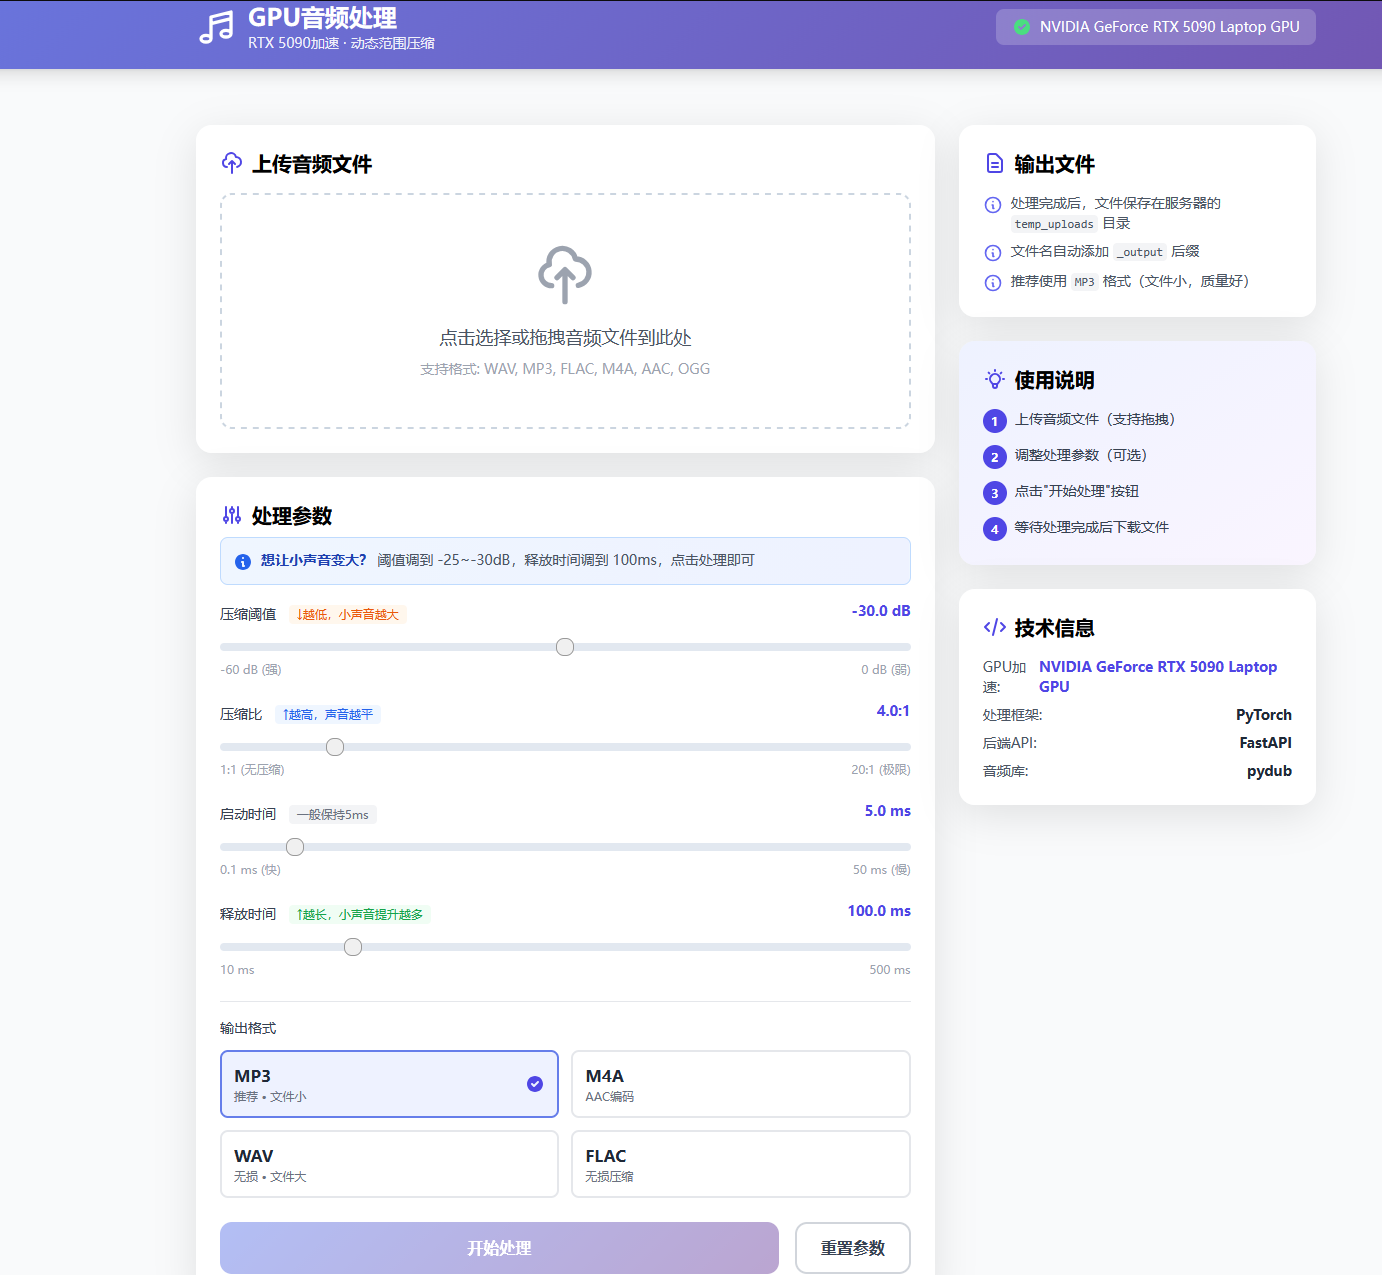
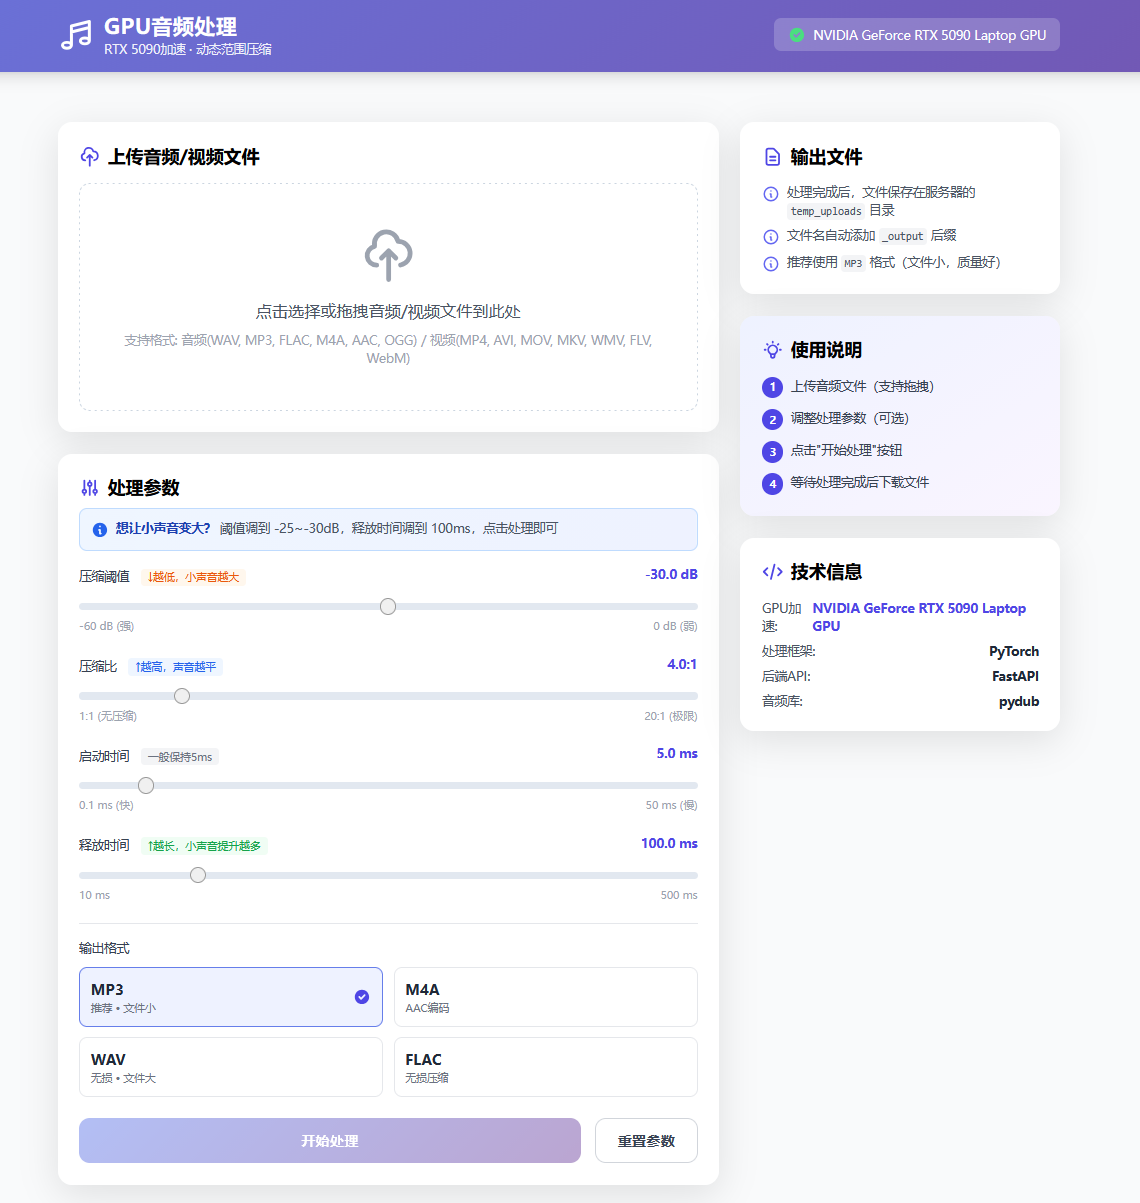
视频预处理BUG修复

diff --git a/audio_preprocessing/templates/index.html b/audio_preprocessing/templates/index.html
@@ -4,7 +4,7 @@
     <meta charset="UTF-8">
     <meta name="viewport" content="width=device-width, initial-scale=1.0">
     <title>GPU音频处理 - RTX 5090加速</title>
-    <script src="https://cdn.tailwindcss.com"></script>
+    <script src="/static/tailwind.js"></script>
     <style>
         /* 自定义样式 */
         .gradient-bg {
@@ -146,16 +146,16 @@
                         <svg class="w-6 h-6 mr-2 text-indigo-600" fill="none" stroke="currentColor" viewBox="0 0 24 24">
                             <path stroke-linecap="round" stroke-linejoin="round" stroke-width="2" d="M7 16a4 4 0 01-.88-7.903A5 5 0 1115.9 6L16 6a5 5 0 011 9.9M15 13l-3-3m0 0l-3 3m3-3v12"></path>
                         </svg>
-                        上传音频文件
+                        上传音频/视频文件
                     </h2>
 
                     <div id="uploadZone" class="upload-zone rounded-xl p-12 text-center cursor-pointer">
-                        <input type="file" id="fileInput" class="hidden" accept=".wav,.mp3,.flac,.m4a,.aac,.ogg">
+                        <input type="file" id="fileInput" class="hidden" accept=".wav,.mp3,.flac,.m4a,.aac,.ogg,.mp4,.avi,.mov,.mkv,.wmv,.flv,.webm">
                         <svg class="w-16 h-16 mx-auto mb-4 text-gray-400" fill="none" stroke="currentColor" viewBox="0 0 24 24">
                             <path stroke-linecap="round" stroke-linejoin="round" stroke-width="2" d="M7 16a4 4 0 01-.88-7.903A5 5 0 1115.9 6L16 6a5 5 0 011 9.9M15 13l-3-3m0 0l-3 3m3-3v12"></path>
                         </svg>
-                        <p class="text-lg text-gray-600 mb-2">点击选择或拖拽音频文件到此处</p>
-                        <p class="text-sm text-gray-400">支持格式: WAV, MP3, FLAC, M4A, AAC, OGG</p>
+                        <p class="text-lg text-gray-600 mb-2">点击选择或拖拽音频/视频文件到此处</p>
+                        <p class="text-sm text-gray-400">支持格式: 音频(WAV, MP3, FLAC, M4A, AAC, OGG) / 视频(MP4, AVI, MOV, MKV, WMV, FLV, WebM)</p>
                     </div>
 
                     <!-- 文件信息 -->
@@ -413,7 +413,7 @@
                     <div class="space-y-3 text-sm text-gray-700">
                         <div class="flex items-start space-x-2">
                             <span class="flex-shrink-0 w-6 h-6 bg-indigo-600 text-white rounded-full flex items-center justify-center text-xs font-bold">1</span>
-                            <p>上传音频文件（支持拖拽）</p>
+                            <p>上传音频/视频文件（支持拖拽）</p>
                         </div>
 
                         <div class="flex items-start space-x-2">
@@ -651,7 +651,10 @@
 
         // 处理文件
         function handleFile(file) {
-            const validExtensions = ['.wav', '.mp3', '.flac', '.m4a', '.aac', '.ogg'];
+            // 支持音频和视频格式
+            const audioExtensions = ['.wav', '.mp3', '.flac', '.m4a', '.aac', '.ogg'];
+            const videoExtensions = ['.mp4', '.avi', '.mov', '.mkv', '.wmv', '.flv', '.webm'];
+            const validExtensions = [...audioExtensions, ...videoExtensions];
             const fileExt = '.' + file.name.split('.').pop().toLowerCase();
 
             if (!validExtensions.includes(fileExt)) {
@@ -670,7 +673,7 @@
         // 开始处理
         async function startProcessing() {
             if (!currentFile) {
-                showAlert('请先选择音频文件', 'error');
+                showAlert('请先选择音频或视频文件', 'error');
                 return;
             }
 

diff --git a/audio_preprocessing/api_server.py b/audio_preprocessing/api_server.py
@@ -44,6 +44,13 @@ app.add_middleware(
 TEMP_DIR = Path("./temp_uploads")
 TEMP_DIR.mkdir(exist_ok=True)
 
+# 静态文件目录
+static_dir = Path(__file__).parent / "static"
+static_dir.mkdir(exist_ok=True)
+
+# 挂载静态文件服务
+app.mount("/static", StaticFiles(directory=str(static_dir)), name="static")
+
 # 模板目录
 templates_dir = Path(__file__).parent / "templates"
 
@@ -94,22 +101,25 @@ async def health_check():
 @app.post("/api/upload")
 async def upload_audio(file: UploadFile = File(...)):
     """
-    上传音频文件
+    上传音频/视频文件
 
     Args:
-        file: 音频文件
+        file: 音频或视频文件
 
     Returns:
         JSON响应，包含文件名和存储路径
     """
     # 验证文件类型
-    allowed_extensions = {'.wav', '.mp3', '.flac', '.m4a', '.aac', '.ogg'}
+    audio_extensions = {'.wav', '.mp3', '.flac', '.m4a', '.aac', '.ogg'}
+    video_extensions = {'.mp4', '.avi', '.mov', '.mkv', '.wmv', '.flv', '.webm'}
+    allowed_extensions = audio_extensions | video_extensions
+
     file_ext = Path(file.filename).suffix.lower()
 
     if file_ext not in allowed_extensions:
         raise HTTPException(
             status_code=400,
-            detail=f"不支持的文件格式: {file_ext}。支持的格式: {', '.join(allowed_extensions)}"
+            detail=f"不支持的文件格式: {file_ext}"
         )
 
     # 保存文件
@@ -119,14 +129,74 @@ async def upload_audio(file: UploadFile = File(...)):
         with open(file_path, "wb") as buffer:
             shutil.copyfileobj(file.file, buffer)
 
+        file_type = "视频" if file_ext in video_extensions else "音频"
         logger.info(f"文件上传成功: {file.filename} -> {file_path}")
+
+        # 如果是视频文件，提取音频
+        actual_filename = file.filename
+        actual_file_path = str(file_path)
+
+        if file_ext in video_extensions:
+            logger.info(f"检测到视频文件，正在提取音频...")
+            try:
+                # 使用moviepy提取音频
+                from moviepy.editor import VideoFileClip
+
+                # 生成音频文件名
+                audio_filename = f"{Path(file.filename).stem}.wav"
+                audio_file_path = TEMP_DIR / audio_filename
+
+                # 提取音频
+                logger.info(f"开始提取音频: {file.filename} -> {audio_filename}")
+                video_clip = VideoFileClip(str(file_path))
+                video_clip.audio.write_audiofile(
+                    str(audio_file_path),
+                    codec='pcm_s16le',
+                    fps=44100
+                )
+                video_clip.close()
+
+                logger.info(f"音频提取完成: {audio_filename}")
+
+                # 删除原视频文件以节省空间
+                file_path.unlink()
+
+                # 更新文件信息
+                actual_filename = audio_filename
+                actual_file_path = str(audio_file_path)
+
+                return {
+                    "success": True,
+                    "filename": actual_filename,
+                    "path": actual_file_path,
+                    "size": audio_file_path.stat().st_size,
+                    "message": f"视频文件，音频已提取",
+                    "file_type": "video",
+                    "original_file": file.filename
+                }
+
+            except ImportError:
+                logger.error("需要安装moviepy: pip install moviepy")
+                raise HTTPException(
+                    status_code=500,
+                    detail="视频处理功能需要安装moviepy库"
+                )
+            except Exception as e:
+                logger.error(f"音频提取失败: {e}")
+                # 提取失败，删除视频文件
+                file_path.unlink()
+                raise HTTPException(
+                    status_code=500,
+                    detail=f"音频提取失败: {str(e)}"
+                )
 
         return {
             "success": True,
-            "filename": file.filename,
-            "path": str(file_path),
+            "filename": actual_filename,
+            "path": actual_file_path,
             "size": file_path.stat().st_size,
-            "message": "文件上传成功"
+            "message": f"{file_type}文件上传成功",
+            "file_type": "audio"
         }
 
     except Exception as e:

diff --git a/audio_preprocessing/README_WEB.md b/audio_preprocessing/README_WEB.md
@@ -10,6 +10,7 @@
 - 📊 **实时反馈**: 处理进度实时显示
 - 🔧 **参数可调**: 支持自定义压缩参数
 - 📁 **便捷操作**: 支持拖拽上传，一键下载
+- 🎬 **视频支持**: 支持上传视频文件，自动提取音频进行处理
 
 ## 📋 系统要求
 
@@ -65,7 +66,10 @@ python api_server.py
 
 ### 操作步骤
 
-1. **上传音频**: 点击上传区域或拖拽音频文件
+1. **上传音频/视频**: 点击上传区域或拖拽文件
+   - 支持音频格式: WAV, MP3, FLAC, M4A, AAC, OGG
+   - 支持视频格式: MP4, AVI, MOV, MKV, WMV, FLV, WebM
+   - 上传视频后会自动提取音频
 2. **调整参数**: 根据需要调整压缩参数
 3. **开始处理**: 点击"开始处理"按钮
 4. **下载结果**: 处理完成后下载输出文件
@@ -389,6 +393,12 @@ A: 程序会自动降级到CPU模式，处理速度会较慢。
 
 ### Q: 支持哪些音频格式？
 A: WAV, MP3, FLAC, M4A, AAC, OGG
+
+### Q: 支持哪些视频格式？
+A: MP4, AVI, MOV, MKV, WMV, FLV, WebM
+   - 上传视频后会自动提取音频流（转为WAV格式）
+   - 原视频文件会在提取后自动删除以节省空间
+   - 提取的音频将进行动态范围压缩处理
 
 ### Q: 处理时间大概多久？
 A: RTX 5090上可实现10-20x实时速度，60分钟音频约需3-6分钟。
